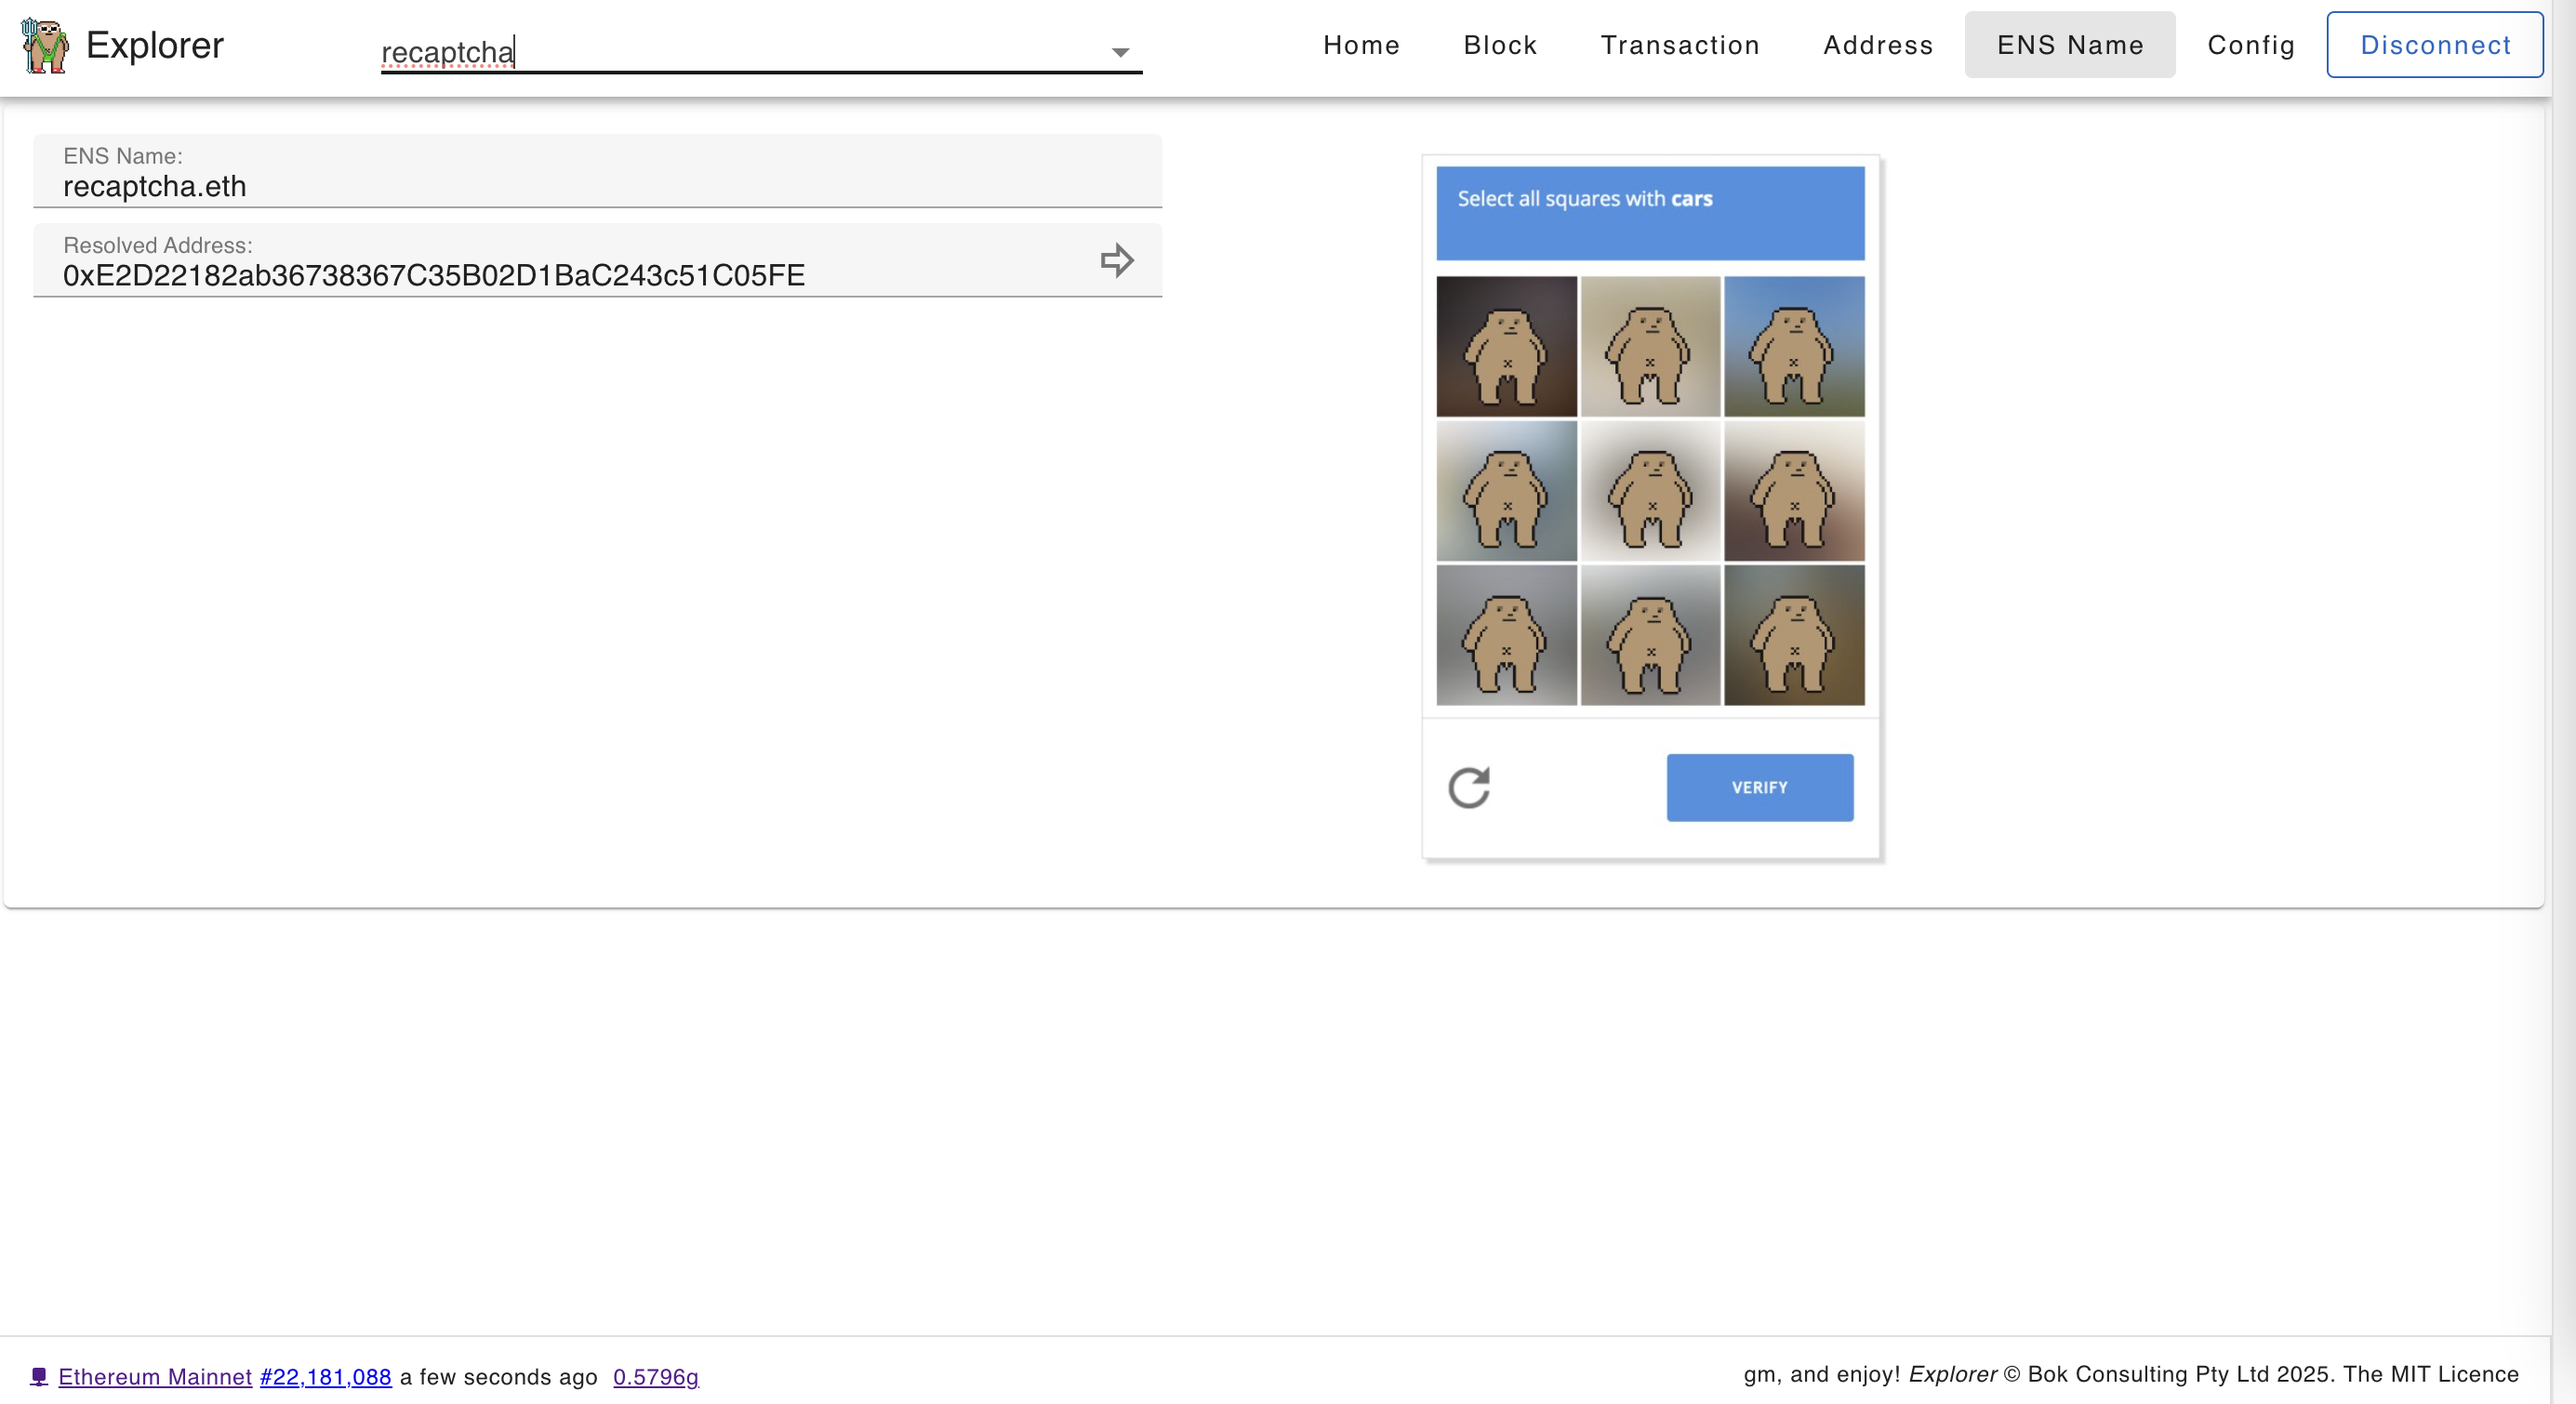
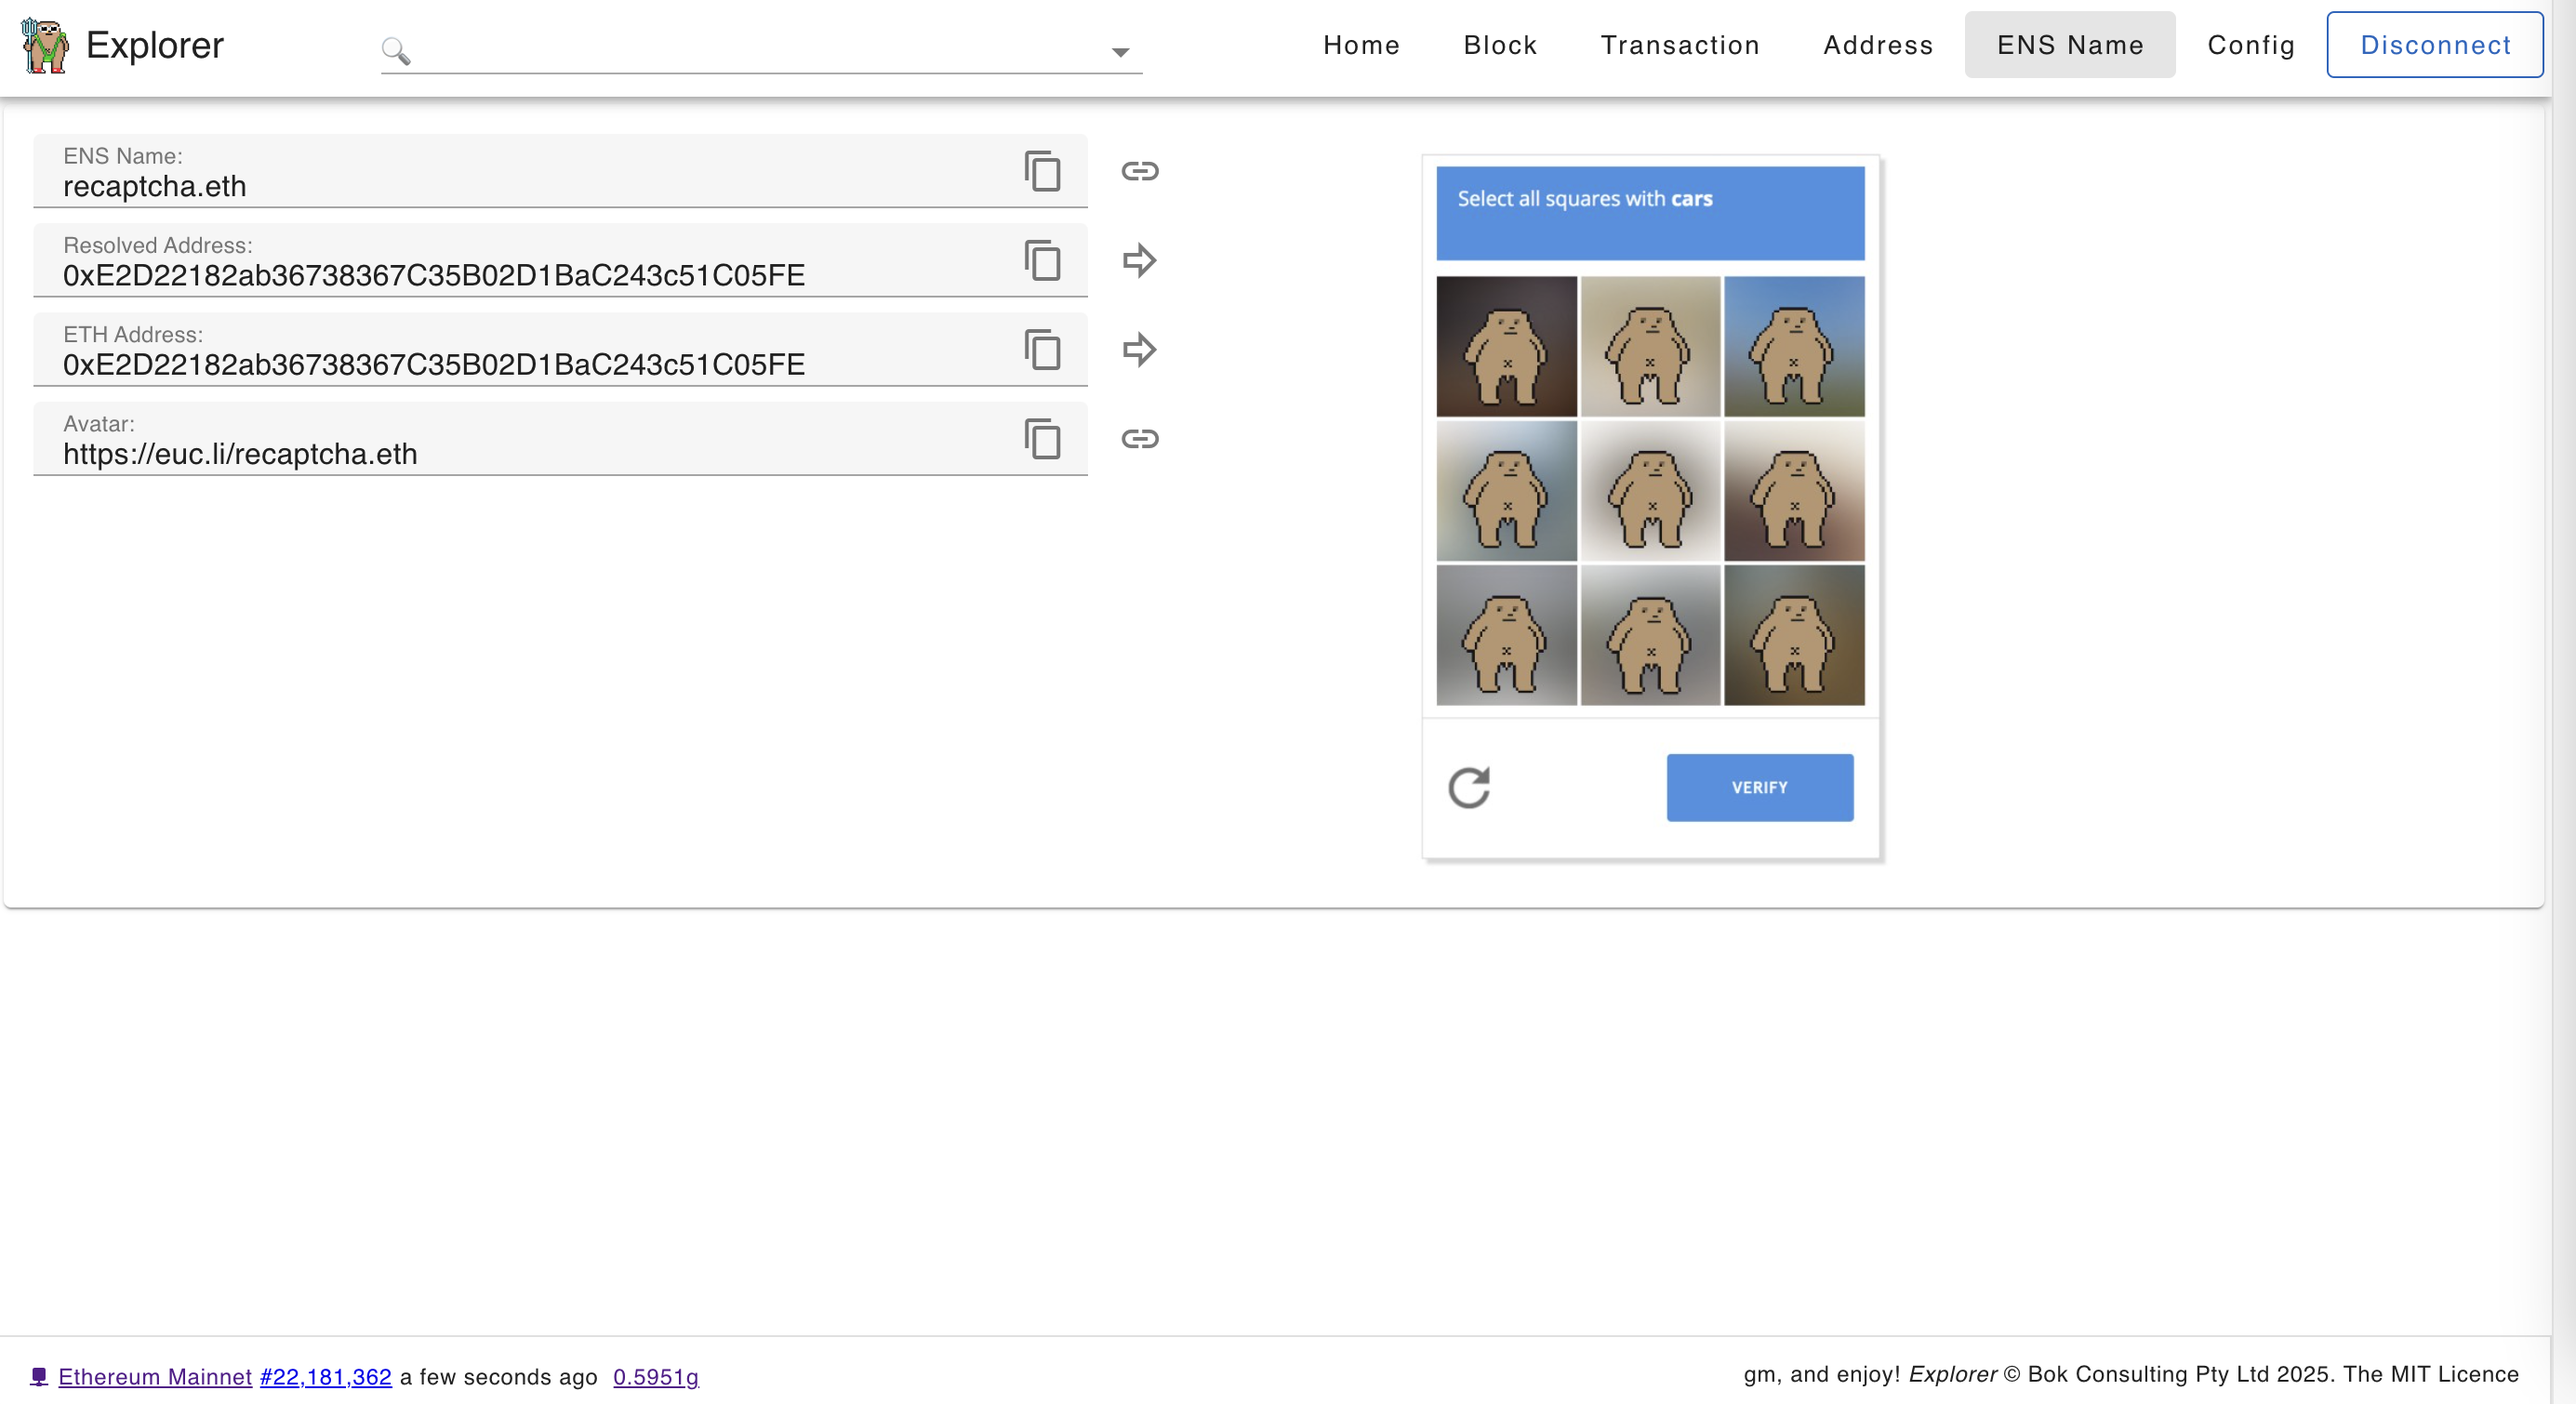
ENS name wip

Changed region(s): [[0.031, 0.2179, 0.3105, 0.3424], [0.1552, 0.0311, 0.2173, 0.0623]]

diff --git a/docs/name.js b/docs/name.js
@@ -16,7 +16,18 @@ const Name = {
               <v-col cols="6">
                 <v-row dense>
                   <v-col cols="11">
-                    <v-text-field readonly v-model="name" label="ENS Name:" density="compact" hide-details></v-text-field>
+                    <v-text-field
+                      readonly
+                      v-model="name"
+                      label="ENS Name:"
+                      append-inner-icon="mdi-content-copy"
+                      @click:append-inner="copyToClipboard(name)"
+                      append-icon="mdi-link"
+                      @click:append="navigateToURL('https://app.ens.domains/' + name)"
+                      density="compact"
+                      hide-details
+                    >
+                    </v-text-field>
                   </v-col>
                 </v-row>
                 <v-row dense>
@@ -25,8 +36,26 @@ const Name = {
                       readonly
                       v-model="resolvedAddress"
                       label="Resolved Address:"
-                      append-inner-icon="mdi-arrow-right-bold-outline"
-                      @click:append-inner="navigateToAddress(resolvedAddress)"
+                      append-inner-icon="mdi-content-copy"
+                      @click:append-inner="copyToClipboard(resolvedAddress)"
+                      append-icon="mdi-arrow-right-bold-outline"
+                      @click:append="navigateToAddress(resolvedAddress)"
+                      density="compact"
+                      hide-details
+                    >
+                    </v-text-field>
+                  </v-col>
+                </v-row>
+                <v-row dense>
+                  <v-col cols="11">
+                    <v-text-field
+                      readonly
+                      v-model="ethAddress"
+                      label="ETH Address:"
+                      append-inner-icon="mdi-content-copy"
+                      @click:append-inner="copyToClipboard(ethAddress)"
+                      append-icon="mdi-arrow-right-bold-outline"
+                      @click:append="navigateToAddress(ethAddress)"
                       density="compact"
                       hide-details
                     >
@@ -39,8 +68,10 @@ const Name = {
                       readonly
                       v-model="avatar"
                       label="Avatar:"
-                      append-inner-icon="mdi-link"
-                      @click:append-inner="navigateToURL(avatar)"
+                      append-inner-icon="mdi-content-copy"
+                      @click:append-inner="copyToClipboard(avatar)"
+                      append-icon="mdi-link"
+                      @click:append="navigateToURL(avatar)"
                       density="compact"
                       hide-details
                     >
@@ -70,6 +101,9 @@ const Name = {
     resolvedAddress() {
       return store.getters['name/info'].resolvedAddress || null;
     },
+    ethAddress() {
+      return store.getters['name/info'].ethAddress || null;
+    },
     avatar() {
       return store.getters['name/info'].avatar || null;
     },
@@ -92,6 +126,9 @@ const Name = {
     navigateToURL(link) {
       console.log(now() + " Name - methods.navigateToURL - link: " + link);
       window.open(link, "_blank");
+    },
+    copyToClipboard(str) {
+      navigator.clipboard.writeText(str);
     },
     formatETH(e) {
       if (e) {
